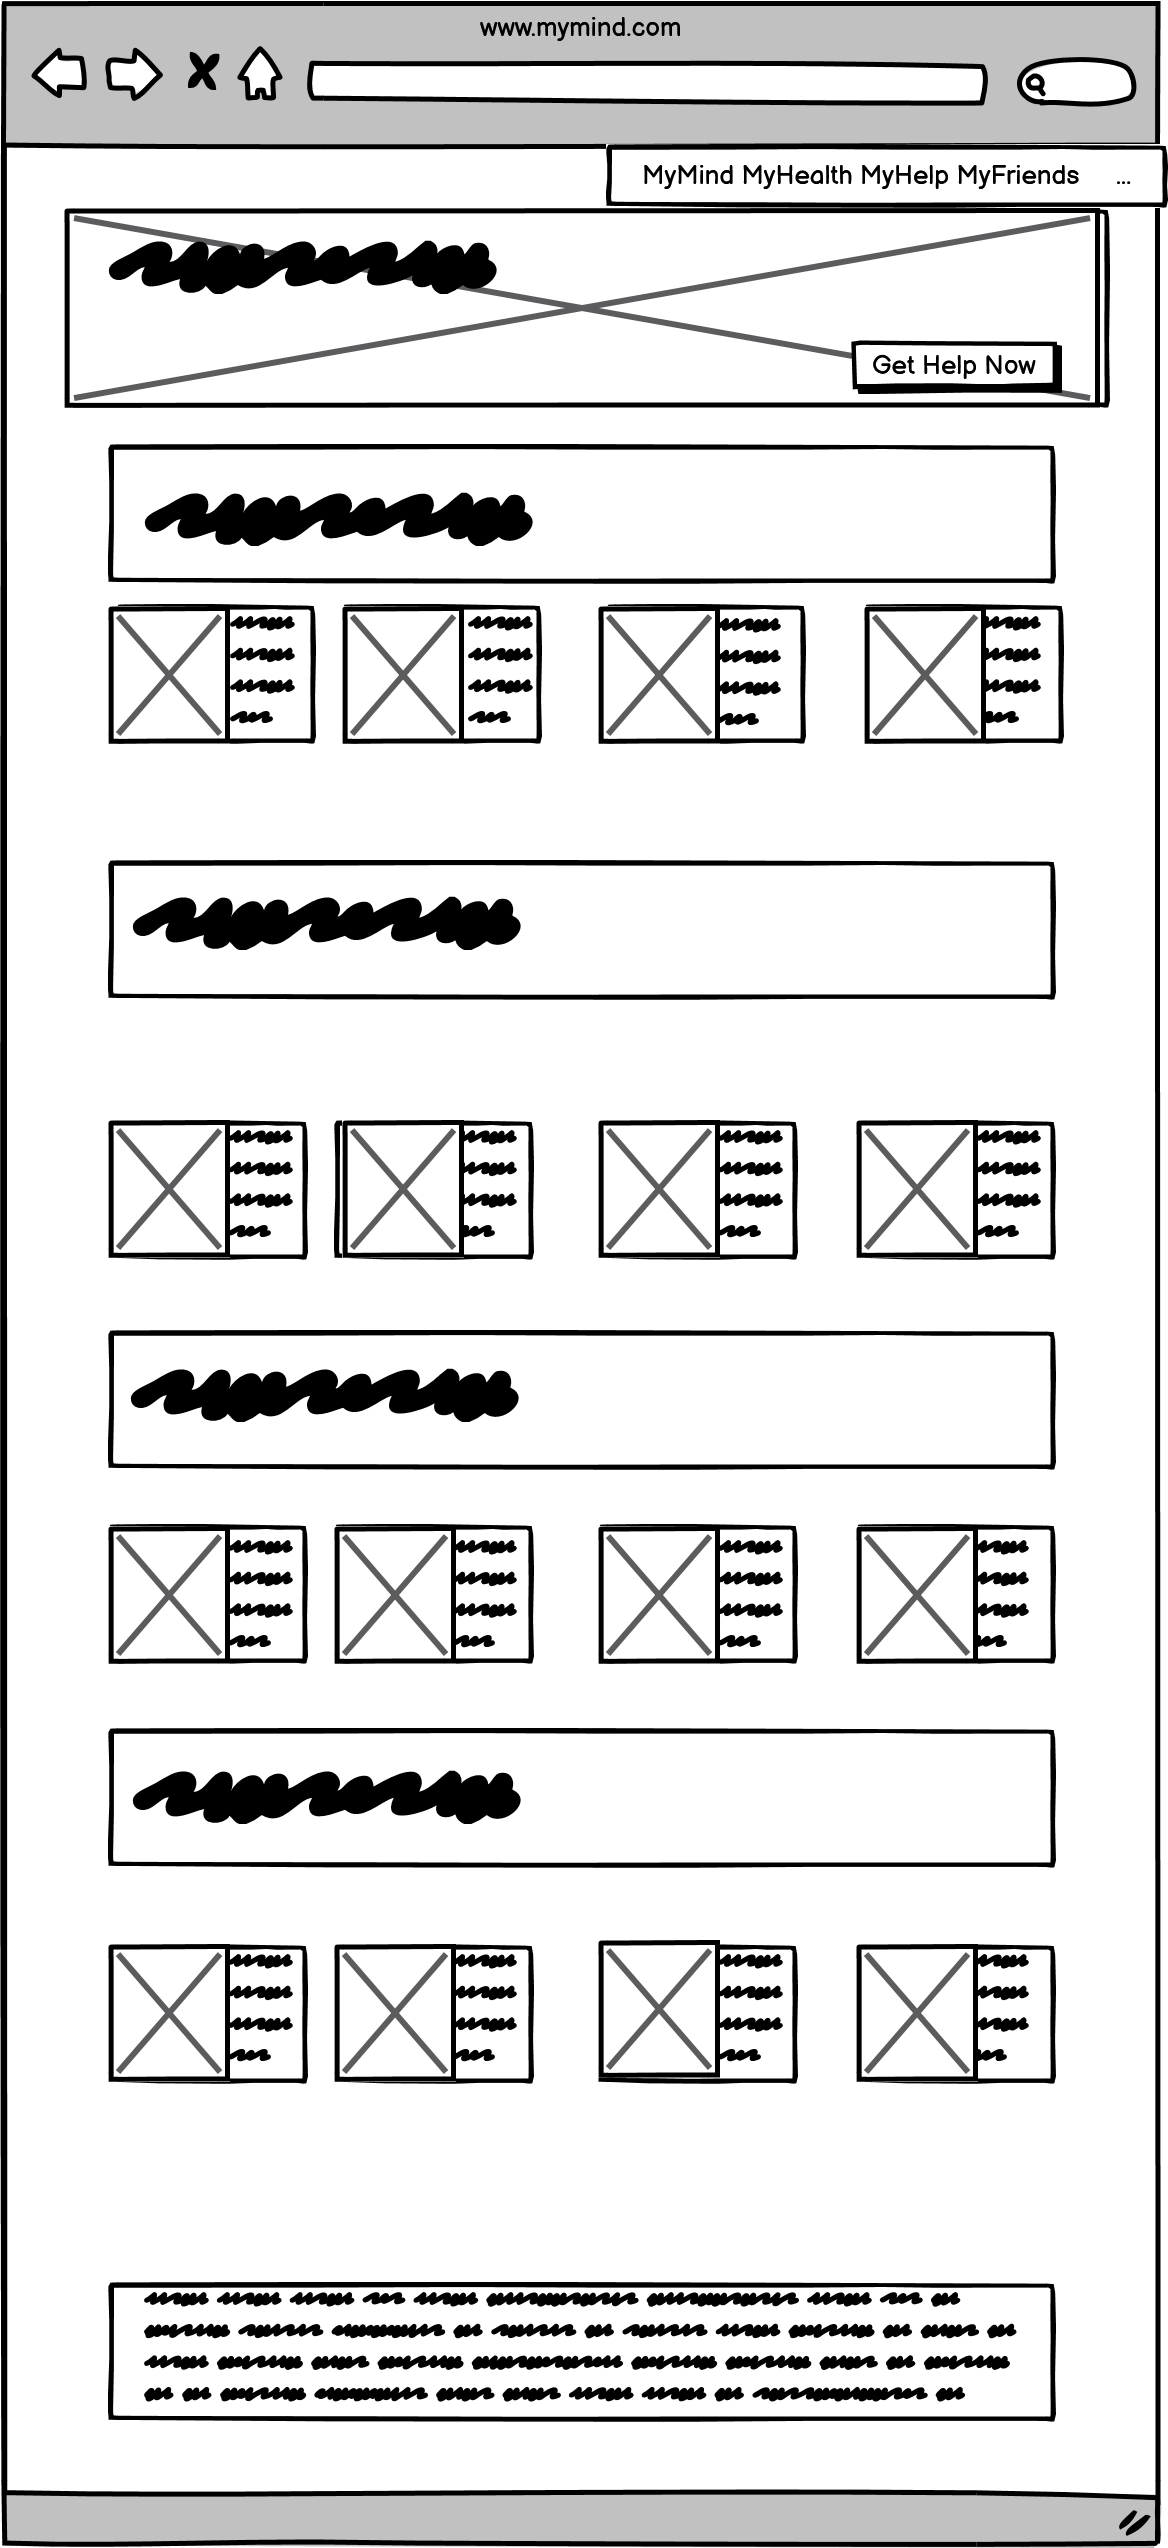
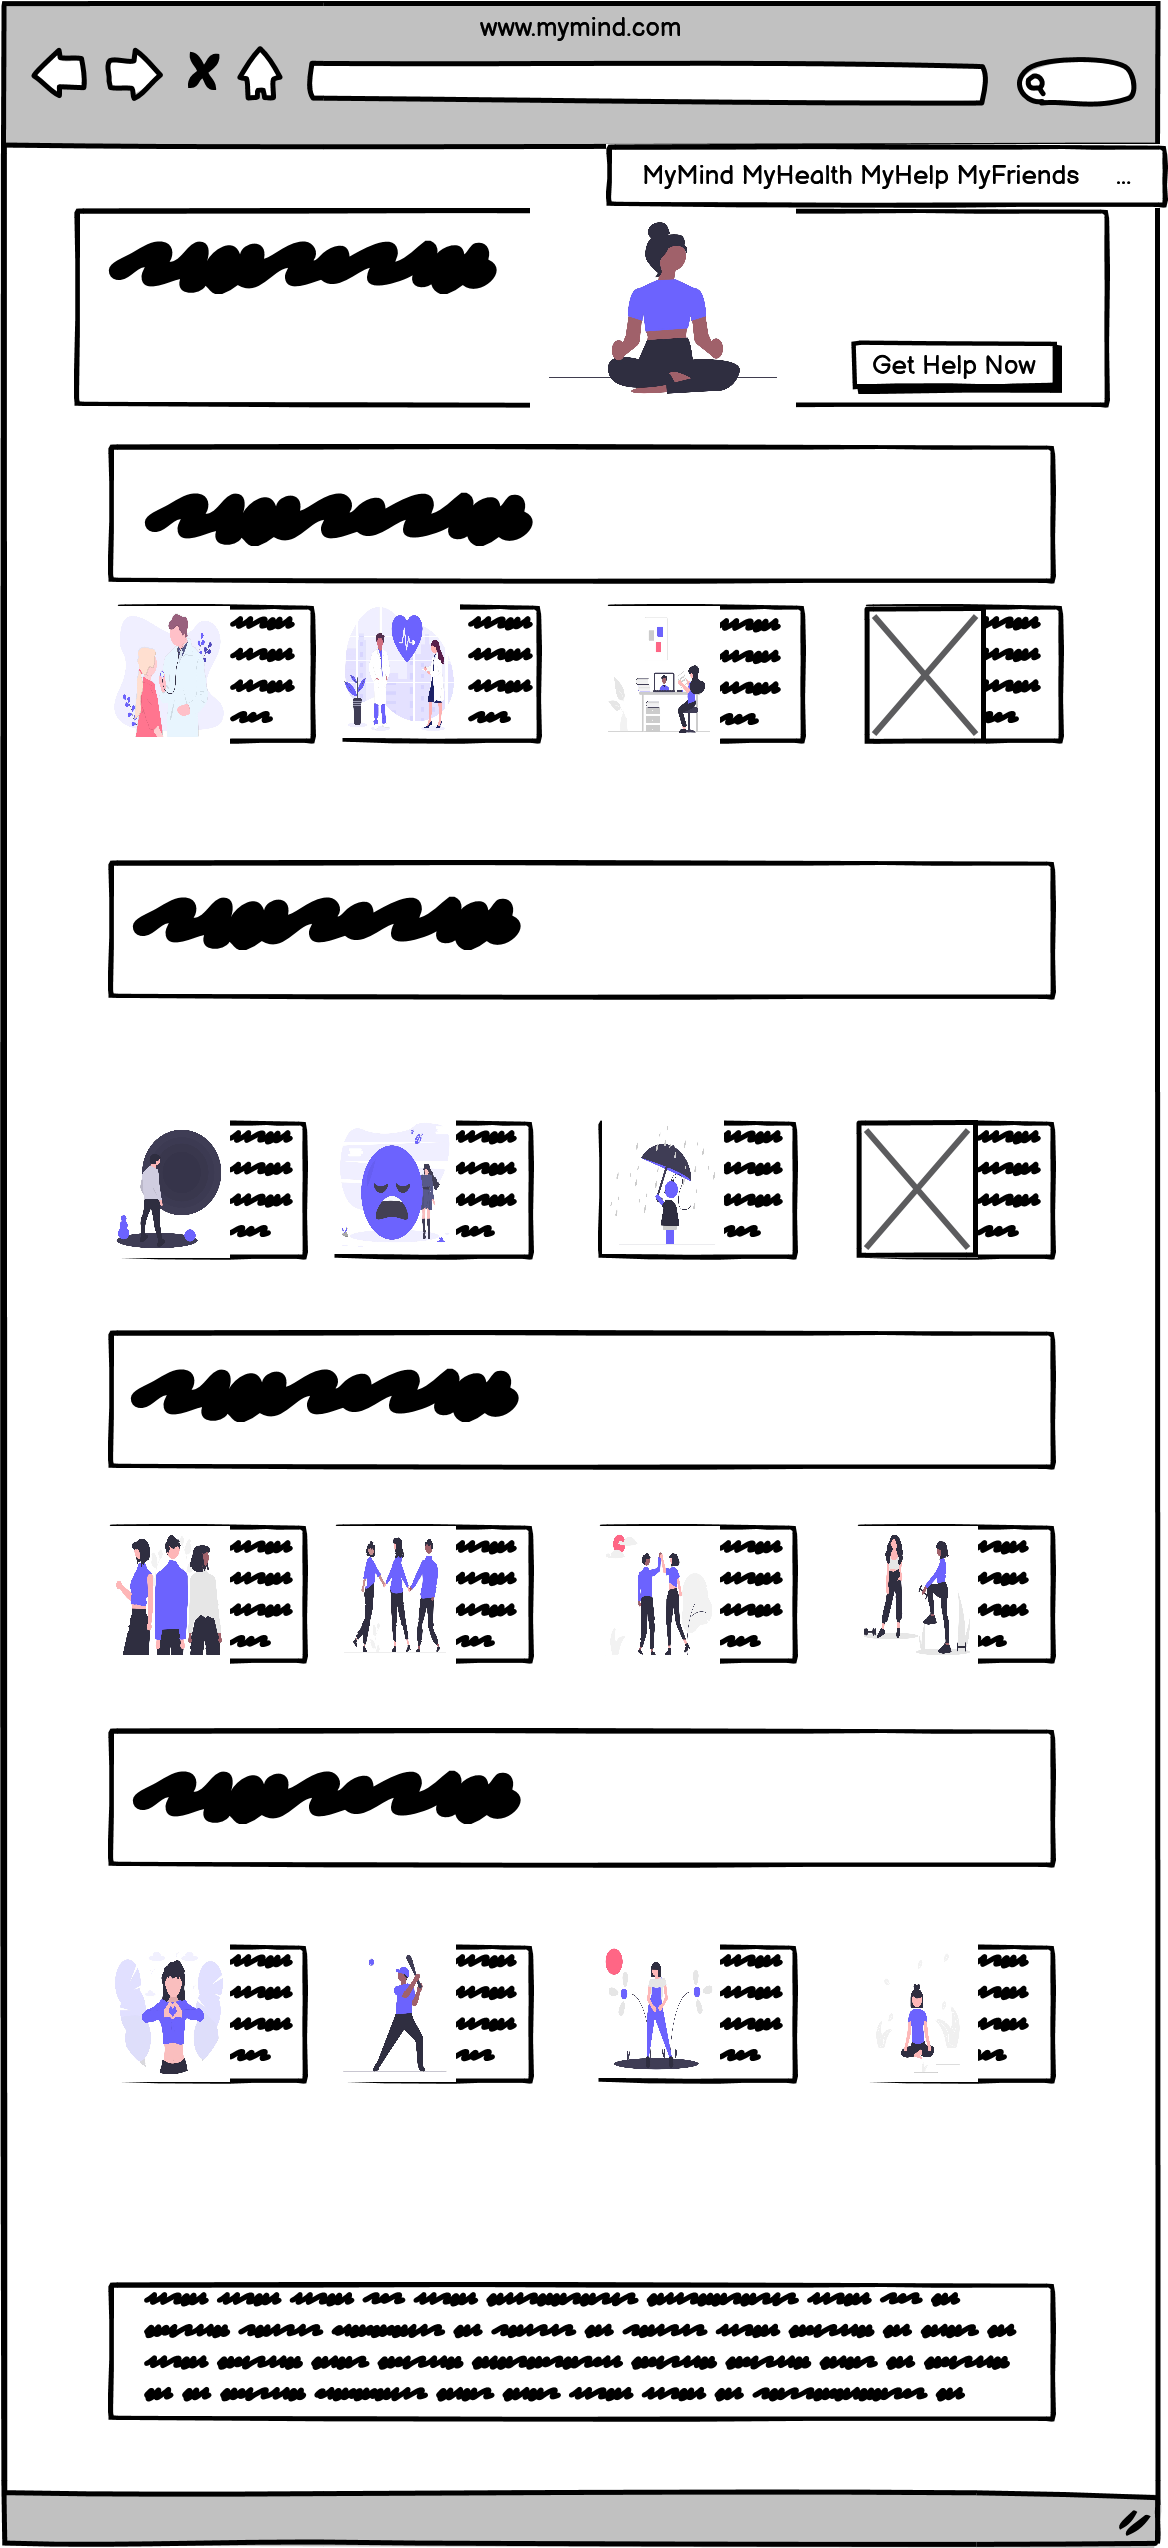
added box shadow and Readme resorces

diff --git a/index.html b/index.html
@@ -6,7 +6,7 @@
     <meta name="viewport" content="width=device-width, initial-scale=1.0" />
     <meta name="description"
         content="My Mind Mental Health, your one page for Mental health information, resources, and support." />
-    <title>My Mind Mental Health | Home</title>
+    <title>MyMind Mental Health | Home</title>
 
     <!-- favicons generated by favicon.io -->
     <link rel="apple-touch-icon" sizes="180x180" href="assets/Images/favicon_io/apple-touch-icon.png" />
@@ -30,7 +30,7 @@
     <!-- Navbar -->
     <nav id="navbar" class="navbar navbar-expand-lg bg-body-tertiary">
         <div class="container">
-            <a class="navbar-brand" href="index.html"><img src="assets/Images/favicon_io/favicon-32x32.png"
+            <a class="navbar-brand" href="index.html"><img src="assets/Images/my-mind-logo-no-white-space-.png"
                     alt="MyMind Logo" class="logo" /></a>
             <button class="navbar-toggler" type="button" data-bs-toggle="collapse" data-bs-target="#navbarNav"
                 aria-controls="navbarNav" aria-expanded="false" aria-label="Toggle navigation">
@@ -87,15 +87,15 @@
                     <div id="get-help" class="card-body">
                         <div class="row">
                             <!-- Talk to Us Section -->
-                            <div class="col-md-4">
-                                <div class="text-start">
+                            <div class=" col-md-4 call-to-action">
+                                <div class="text-start ">
                                     <h5 class="card-title">Do you need to talk to someone?</h5>
-                                    <p class="card-text">
+                                    <p class="card-text ">
                                         If you press the talk to us button below, you can
                                         fill out a form and we will get back to you as soon as possible.
                                     </p>
                                     <!-- Button trigger modal -->
-                                    <button type="button" class="btn btn-modal" data-bs-toggle="modal"
+                                    <button type="button" class=" btn btn-modal mb-4" data-bs-toggle="modal"
                                         data-bs-target="#exampleModal">
                                         Talk to us
                                     </button>
@@ -110,8 +110,8 @@
                             </div>
                             
                             <!-- Emergency Section -->
-                            <div class="col-md-4">
-                                <div class="text-end">
+                            <div class=" col-md-4 call-to-action">
+                                <div class="text-end ">
                                     <h5 class="card-title">Are you feeling ok?</h5>
                                     <p class="card-text">
                                         If you or someone else is in danger call 999
@@ -121,11 +121,11 @@
                                         If you need urgent help for your mental
                                         health get help from NHS online or call 111
                                     </p>
-                                    <a href="tel:111" id="btn-111" class="btn" role="button" data-bs-toggle="tooltip"
+                                    <a href="tel:111" id="btn-111" class="  btn" role="button" data-bs-toggle="tooltip"
                                         data-bs-title="This button will call non-emergency NHS Line">
                                         111
                                     </a>
-                                    <a href="tel:999" id="btn-999" class="btn btn-danger" role="button" data-bs-toggle="tooltip"
+                                    <a href="tel:999" id="btn-999" class="  btn btn-danger" role="button" data-bs-toggle="tooltip"
                                         data-bs-title="This button will call emergency services">
                                         999
                                     </a>
@@ -461,7 +461,7 @@
     </main>
     <!-- Footer -->
     <footer>
-        <div class="m-auto text-center py-3">
+        <div class="m-auto text-center">
             <p>Thank you for visiting MyMental Health</p>
             <p> <a href="mailto:andrewbullimore@gmail.com">Contact Us</a></p>
             <a href="https://www.termsfeed.com/live/0e256558-98a7-4ab0-a6aa-042d932dbf1c" target="_blank">Terms & Conditions</a>

diff --git a/assets/CSS/style.css b/assets/CSS/style.css
@@ -36,36 +36,44 @@ body {
 
 #get-help {
     padding-left: 20px;}
+
+
 #btn-111{
     background-color: var(--primary-color);
     border-color: var(--primary-color);                                                                                                                                                                                                                                                                                                                                         
     color: white;
+    box-shadow:2px 2px 4px #000000;
 }
 
 #btn-111:hover {
     background-color: var(--highlight-color-light);
     border-color: var(--highlight-color-light);
+    box-shadow: none;
 }
 
 .btn-modal{
     background-color: var(--primary-color);
     border-color: var(--primary-color);                                                                                                                                                                                                                                                                                                                                         
     color: white;
+    box-shadow:2px 2px 4px #000000;
 }
 
 .btn-modal:hover {
     background-color: var(--highlight-color-light);
     border-color: var(--highlight-color-light);
+    box-shadow: none
 }
 #btn-999 {
     background-color: var(--highlight-color);
     border-color: var(--highlight-color);
     color: white;
+    box-shadow:2px 2px 4px #000000;
 }
 #btn-999:hover{
     background-color: var(--highlight-color1);
     border-color: var(--highlight-color1);
     color: white;
+    box-shadow: none;
 }
 
 #health-symbol h1{
@@ -80,14 +88,21 @@ body {
     background-color: var(--secondary-color);
     border-color: var(--secondary-color);
     color: white;
+    box-shadow:2px 2px 4px #000000;
+    
 }
 #resources-btn:hover {
     background-color: var(--secondary-color-highlight);
-    border-color: var(--highlight-color1);
+    border-color: var(--secondary-color-highlight);
     color: white;
+    box-shadow:none
 }
 
+
 /* Main Layout Styles */
+.card{
+    box-shadow:2px 2px 4px #000000;
+}
 h1, h2, h3, h4, h5, h6 {
     font-family: var(--primary-font);
     color: var(--secondary-color);
@@ -123,9 +138,18 @@ main .card-img {
     object-position: center;
 }
 
-
+/*footer styles */
+footer a{
+    color: var(--secondary-color);
+    text-decoration: underline;
+}
+footer a:hover{
+    color: var(--secondary-color-highlight);
+    text-decoration: underline;
+}
 
 /* Responsive container alignment */
+
 @media (min-width: 576px) {
     .hero,
     main {
@@ -182,17 +206,6 @@ main .card-img {
         padding-left: 15px;
         padding-right: 15px;
     }
-}
-
-/* Footer Styles */
-footer a {
-    color: var(--secondary-color);
-    text-decoration: none;
-}
-
-footer a:hover {
-    color: var(--secondary-color-highlight);
-    text-decoration: underline;
 }
 
 /* grid visualisation CSS for testing */
